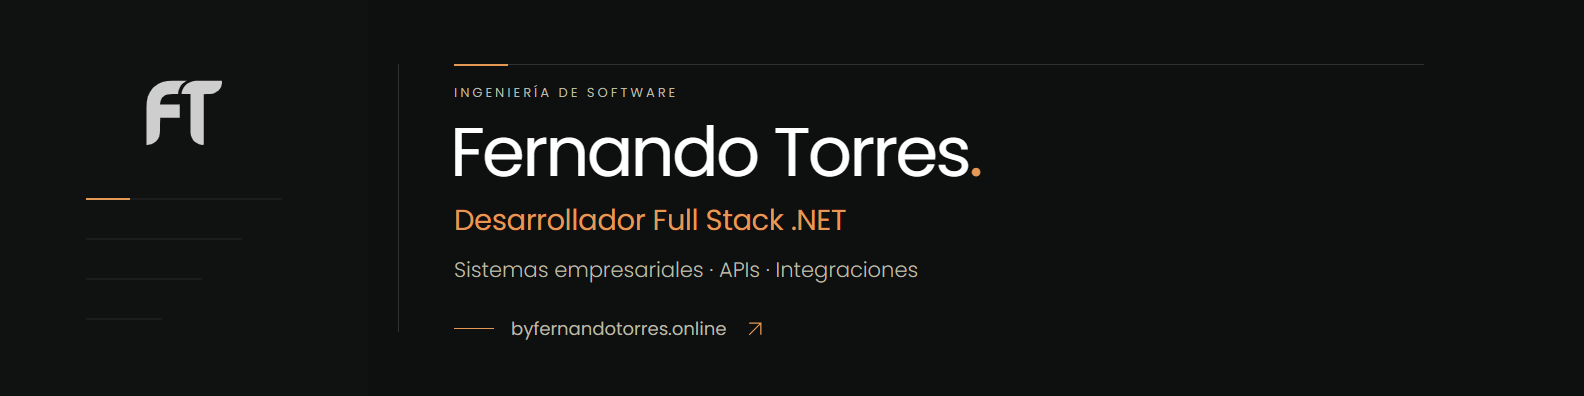
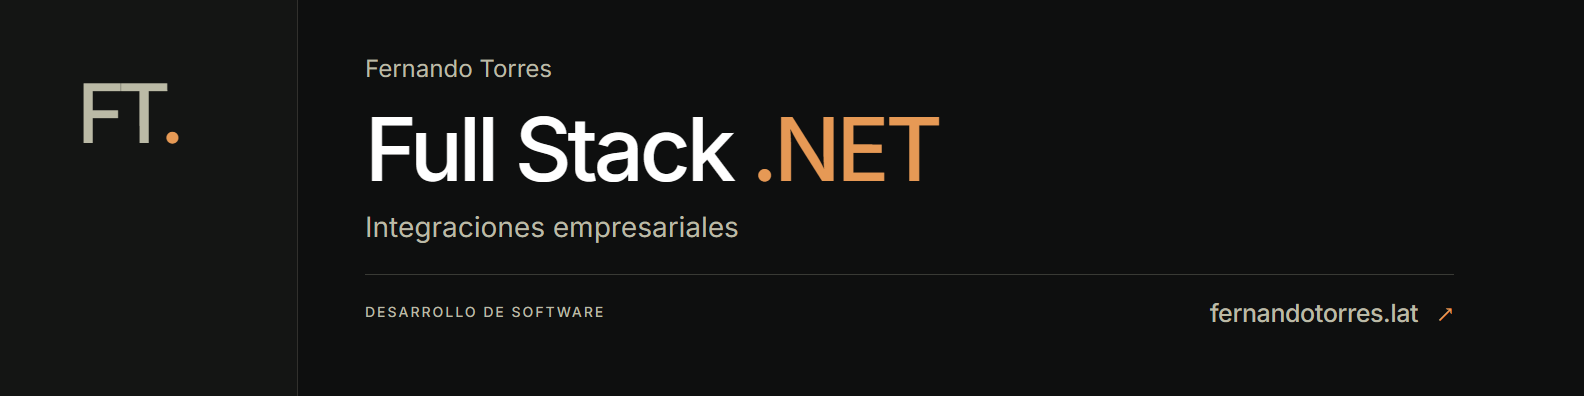
fix(index): actualiza el nombre del dominio

diff --git a/assets/banners/linkedin/index.html b/assets/banners/linkedin/index.html
@@ -1,146 +1,202 @@
-<!DOCTYPE html>
+<!doctype html>
 <html lang="es-MX">
-
 <head>
-    <meta charset="utf-8">
-    <meta name="viewport" content="width=device-width, initial-scale=1">
-    <meta name="robots" content="noindex, nofollow">
-    <meta name="theme-color" content="#0e0f0f">
-    <title>Portadas de LinkedIn — Fernando Torres</title>
-    <link rel="preconnect" href="https://fonts.googleapis.com">
-    <link rel="preconnect" href="https://fonts.gstatic.com" crossorigin>
-    <link href="https://fonts.googleapis.com/css2?family=Poppins:wght@300;400;500;600&display=swap" rel="stylesheet">
-    <link rel="stylesheet" href="banners.css">
+  <meta charset="utf-8">
+  <meta name="viewport" content="width=device-width, initial-scale=1">
+  <meta name="robots" content="noindex, nofollow">
+  <title>Fernando Torres — Banners LinkedIn</title>
+  <link href="https://fonts.googleapis.com/css2?family=Inter:wght@400;500;600&display=swap" rel="stylesheet">
+  <style>
+    :root { --amber:#e69955; --charcoal:#0e0f0f; --raised:#101111; --soft:#141514; --muted:#bbbaa6; --body:#aaa; --white:#fff; }
+    * { box-sizing:border-box; }
+    body { margin:0; background:var(--charcoal); color:var(--white); font-family:'Vela Sans',Inter,'Noto Sans',sans-serif; -webkit-font-smoothing:antialiased; }
+    .banner { position:relative; width:1584px; height:396px; overflow:hidden; background:var(--charcoal); }
+    h1,h2,p { margin:0; }
+    .amber { color:var(--amber); }
+    .label { font-size:17px; font-weight:500; letter-spacing:3px; text-transform:uppercase; color:var(--muted); }
+    .domain { font-size:25px; font-weight:500; letter-spacing:-.4px; color:var(--muted); }
+    .arrow { color:var(--amber); margin-left:18px; }
+    .minimal .content { position:absolute; top:72px; left:400px; }
+    .minimal h1 { font-size:76px; font-weight:500; letter-spacing:-2.7px; line-height:1.15; margin:12px 0 18px; }
+    .minimal .specialty { font-size:28px; color:var(--muted); }
+    .minimal .domain { margin-top:34px; }
+    .minimal .rule { position:absolute; left:350px; top:79px; height:226px; width:2px; background:var(--amber); }
+    .minimal .sculpture { position:absolute; right:-95px; top:-166px; width:490px; height:670px; border:1px solid #bbbaa626; border-radius:50%; transform:rotate(30deg); }
+    .minimal .sculpture::before,.minimal .sculpture::after { content:''; position:absolute; inset:48px; border:1px solid #bbbaa61c; border-radius:50%; }
+    .minimal .sculpture::after { inset:96px; background:var(--raised); }
+    .editorial .rail { position:absolute; left:0; width:298px; height:396px; background:var(--soft); border-right:1px solid #bbbaa62b; }
+    .editorial .rail span { display:block; margin:64px 0 0 77px; font-size:82px; letter-spacing:-8px; font-weight:500; color:var(--muted); }
+    .editorial .rail i { color:var(--amber); font-style:normal; }
+    .editorial .content { position:absolute; left:365px; top:54px; right:130px; }
+    .editorial .name { font-size:24px; color:var(--muted); }
+    .editorial h1 { font-weight:500; font-size:88px; line-height:1.2; letter-spacing:-4px; margin:14px 0 7px; }
+    .editorial .specialty { font-size:28px; color:var(--muted); }
+    .editorial footer { display:flex; align-items:center; justify-content:space-between; margin-top:30px; padding-top:20px; border-top:1px solid #bbbaa640; }
+    .editorial .label { font-size:14px; letter-spacing:2px; }
+    .geometric .content { position:absolute; left:355px; top:68px; z-index:1; }
+    .geometric h1 { font-size:64px; font-weight:500; line-height:1.15; letter-spacing:-2px; margin:14px 0 12px; }
+    .geometric .specialty { font-size:27px; color:var(--muted); }
+    .geometric .domain { margin-top:36px; }
+    .geometric svg { position:absolute; right:90px; top:48px; width:430px; height:300px; }
+    .geometric .edge { position:absolute; left:0; top:0; height:396px; width:265px; background:repeating-linear-gradient(135deg,transparent 0 31px,#bbbaa609 32px 33px); }
+    .architecture .content { position:absolute; left:355px; top:66px; z-index:1; }
+    .architecture .label { font-size:16px; letter-spacing:2.8px; }
+    .architecture h1 { font-size:65px; font-weight:500; letter-spacing:-2.6px; line-height:1.15; margin:18px 0 14px; }
+    .architecture .specialty { font-size:28px; color:var(--muted); }
+    .architecture .specialty span { color:var(--amber); }
+    .architecture .description { font-size:23px; color:var(--muted); margin-top:8px; }
+    .architecture .domain { margin-top:29px; font-size:24px; }
+    .architecture .art { position:absolute; right:52px; top:8px; width:590px; height:380px; }
+    .architecture .margin-line { position:absolute; left:310px; top:74px; width:2px; height:60px; background:var(--amber); }
+    .reference { border:0; }
+    .reference::after { content:''; position:absolute; inset:3px 21px 6px 28px; border:1px solid #bbbaa62b; pointer-events:none; }
+    .reference .content { position:absolute; left:468px; top:69px; z-index:1; }
+    .reference .label { display:flex; align-items:center; gap:12px; font-size:13px; letter-spacing:2px; }
+    .reference .label::before { content:''; width:7px; height:7px; border-radius:50%; background:var(--amber); }
+    .reference h1 { font-size:56px; line-height:1.15; font-weight:400; letter-spacing:-2.5px; margin:26px 0 18px; }
+    .reference .specialty { color:var(--amber); font-size:26px; letter-spacing:-.6px; }
+    .reference .domain { position:absolute; left:468px; top:324px; font-size:19px; font-weight:400; letter-spacing:-.3px; z-index:1; }
+    .reference .drawing { position:absolute; inset:0; width:1584px; height:396px; }
+    .banner[hidden] { display:none; }
+  </style>
 </head>
-
 <body>
-    <header class="gallery-header">
-        <p class="eyebrow">Fernando Torres / Identidad profesional</p>
-        <h1>Tu siguiente primera impresión.</h1>
-        <div class="gallery-intro">
-            <p>Tres portadas de LinkedIn. Una misma identidad.<br>PNG · 1584 × 396 px · Paleta de DESIGN.md</p>
-            <label class="profile-toggle"><input type="checkbox" id="profile-zone"> Simular foto de perfil</label>
-        </div>
-    </header>
-
-    <main>
-        <section class="proposal" data-variant="editorial">
-            <div class="proposal-heading">
-                <div><span class="proposal-number">01</span><h2>Editorial minimalista</h2><span class="recommended">Recomendada</span></div>
-                <a class="download" href="editorial-1584x396.png" download>Descargar PNG <span aria-hidden="true">↗</span></a>
-            </div>
-            <div class="banner-frame">
-                <article class="banner editorial" aria-label="Portada editorial: Fernando Torres, Desarrollador Full Stack .NET. Sistemas empresariales, APIs e integraciones. byfernandotorres.online.">
-                    <div class="editorial-sidebar" aria-hidden="true"></div>
-                    <img class="editorial-logo" src="../../imgs/logo-light.svg" alt="" aria-hidden="true" width="78" height="71">
-                    <svg class="editorial-ornament" width="196" height="140" viewBox="0 0 196 140" fill="none" aria-hidden="true">
-                        <path d="M0 18H196M0 58H156M0 98H116M0 138H76" stroke="currentColor" stroke-opacity=".13"/>
-                        <path d="M0 18H44" stroke="#e69955" stroke-width="2"/>
-                    </svg>
-                    <div class="editorial-rail" aria-hidden="true"></div>
-                    <div class="editorial-topline" aria-hidden="true"><span></span></div>
-                    <p class="editorial-label" data-copy>Ingeniería de software</p>
-                    <h2 class="editorial-name" data-copy>Fernando Torres<span class="name-dot">.</span></h2>
-                    <p class="editorial-role" data-copy>Desarrollador Full Stack .NET</p>
-                    <p class="editorial-focus" data-copy>Sistemas empresariales · APIs · Integraciones</p>
-                    <div class="editorial-footer" data-copy>
-                        <span class="footer-rule" aria-hidden="true"></span>
-                        <span>byfernandotorres.online</span>
-                        <svg width="20" height="20" viewBox="0 0 24 24" fill="none" aria-hidden="true"><path d="M5 19 19 5M5 5h14v14" stroke="currentColor" stroke-width="1.5"/></svg>
-                    </div>
-                </article>
-            </div>
-            <p class="proposal-note">Tipografía al frente, firma de marca y espacio generoso. Una presentación sobria y atemporal.</p>
-        </section>
-
-        <section class="proposal" data-variant="geometrico">
-            <div class="proposal-heading">
-                <div><span class="proposal-number">02</span><h2>Arquitectura conectada</h2></div>
-                <a class="download" href="geometrico-1584x396.png" download>Descargar PNG <span aria-hidden="true">↗</span></a>
-            </div>
-            <div class="banner-frame">
-                <article class="banner geometric" aria-label="Portada geométrica: Fernando Torres, Desarrollador Full Stack .NET. Sistemas empresariales, APIs e integraciones. byfernandotorres.online.">
-                    <div class="geometric-grid" aria-hidden="true"></div>
-                    <svg class="geometric-lines" width="1584" height="396" viewBox="0 0 1584 396" fill="none" aria-hidden="true">
-                        <path d="M0 106H268C291 106 294 82 318 82H384M0 143H230C259 143 265 119 294 119H350M94 0V45C94 62 107 69 125 69H203M0 180H194" stroke="#bbbaa6" stroke-opacity=".14"/>
-                        <path d="M110 106H230" stroke="#e69955" stroke-opacity=".6"/>
-                        <circle cx="268" cy="106" r="4" fill="#e69955"/>
-                        <circle cx="350" cy="119" r="3" fill="#bbbaa6" fill-opacity=".4"/>
-                        <path d="M1058 97H1100L1140 121M1415 246 1463 272H1584M1284 332V396" stroke="#bbbaa6" stroke-opacity=".28"/>
-                        <path d="m1116 221 168-88 168 88v30l-168 88-168-88Z" fill="#101111" stroke="#bbbaa6" stroke-opacity=".26"/>
-                        <path d="m1116 221 168 88 168-88M1284 309v30" stroke="#bbbaa6" stroke-opacity=".26"/>
-                        <path d="m1116 172 168-88 168 88v30l-168 88-168-88Z" fill="#141514" stroke="#bbbaa6" stroke-opacity=".32"/>
-                        <path d="m1116 172 168 88 168-88M1284 260v30" stroke="#bbbaa6" stroke-opacity=".32"/>
-                        <path d="m1116 123 168-88 168 88v30l-168 88-168-88Z" fill="#101111" stroke="#bbbaa6" stroke-opacity=".5"/>
-                        <path d="m1116 123 168 88 168-88M1284 211v30" stroke="#bbbaa6" stroke-opacity=".5"/>
-                        <path d="m1224 123 60-32 60 32-60 32Z" fill="#141514" stroke="#e69955" stroke-width="1.5"/>
-                        <path d="M1284 91V67m60 56h35m-155 0h-35m95 32v24" stroke="#e69955" stroke-opacity=".65"/>
-                        <circle cx="1284" cy="67" r="3" fill="#e69955"/>
-                        <circle cx="1379" cy="123" r="3" fill="#e69955"/>
-                        <circle cx="1189" cy="123" r="3" fill="#e69955"/>
-                        <circle cx="1284" cy="179" r="3" fill="#e69955"/>
-                        <path d="m1195 214 29 15m-29 34 29 15m-29-15 29 15" stroke="#e69955" stroke-opacity=".75" stroke-width="2"/>
-                        <path d="m1343 241 30-16m-30 65 30-16" stroke="#bbbaa6" stroke-opacity=".5" stroke-width="2"/>
-                    </svg>
-                    <div class="geometric-copy">
-                        <p class="geometric-label" data-copy><span aria-hidden="true"></span>Desarrollo e integración</p>
-                        <h2 class="geometric-name" data-copy>Fernando Torres</h2>
-                        <p class="geometric-role" data-copy>Desarrollador Full Stack .NET</p>
-                        <p class="geometric-focus" data-copy>Sistemas empresariales.<br>APIs e integraciones.</p>
-                        <p class="geometric-url" data-copy>byfernandotorres.online <span aria-hidden="true">↗</span></p>
-                    </div>
-                </article>
-            </div>
-            <p class="proposal-note">Capas isométricas y conexiones originales: una metáfora visual de sistemas que trabajan juntos.</p>
-        </section>
-
-        <section class="proposal" data-variant="tipografico">
-            <div class="proposal-heading">
-                <div><span class="proposal-number">03</span><h2>Especialidad protagonista</h2></div>
-                <a class="download" href="tipografico-1584x396.png" download>Descargar PNG <span aria-hidden="true">↗</span></a>
-            </div>
-            <div class="banner-frame">
-                <article class="banner typographic" aria-label="Portada tipográfica: Fernando Torres, Desarrollador Full Stack .NET. Sistemas empresariales, APIs e integraciones. byfernandotorres.online.">
-                    <div class="typographic-monogram" aria-hidden="true">FT</div>
-                    <svg class="typographic-slash" width="300" height="396" viewBox="0 0 300 396" fill="none" aria-hidden="true">
-                        <path d="M230-100 24 496h80L310-100Z" fill="#141514"/>
-                        <path d="M262-100 56 496" stroke="#bbbaa6" stroke-opacity=".13"/>
-                    </svg>
-                    <div class="typographic-accent" aria-hidden="true"></div>
-                    <p class="typographic-name" data-copy>Fernando Torres</p>
-                    <h2 class="typographic-role" data-copy><span class="role-prefix">Desarrollador</span>Full Stack <span class="dotnet">.NET</span></h2>
-                    <p class="typographic-focus" data-copy>Sistemas empresariales · APIs · Integraciones</p>
-                    <div class="typographic-footer" data-copy>
-                        <span class="footer-rule" aria-hidden="true"></span>
-                        <span>byfernandotorres.online</span>
-                        <svg width="20" height="20" viewBox="0 0 24 24" fill="none" aria-hidden="true"><path d="M5 19 19 5M5 5h14v14" stroke="currentColor" stroke-width="1.5"/></svg>
-                    </div>
-                </article>
-            </div>
-            <p class="proposal-note">La especialidad es el mensaje principal. Mayor impacto tipográfico con un acento ámbar controlado.</p>
-        </section>
-    </main>
-
-    <footer class="gallery-footer">Las tres imágenes reservan la esquina inferior izquierda para tu foto de perfil. Sube el PNG a LinkedIn y conserva el encuadre completo.</footer>
-
-    <script>
-        const exportVariant = new URLSearchParams(window.location.search).get('export');
-        const variants = ['editorial', 'geometrico', 'tipografico'];
-
-        if (variants.includes(exportVariant)) {
-            document.body.classList.add('is-export');
-            document.querySelectorAll('.proposal').forEach(proposal => {
-                proposal.hidden = proposal.dataset.variant !== exportVariant;
-            });
-        } else {
-            const resizeObserver = new ResizeObserver(entries => {
-                entries.forEach(({ target, contentRect }) => {
-                    target.style.setProperty('--preview-scale', contentRect.width / 1584);
-                });
-            });
-            document.querySelectorAll('.banner-frame').forEach(frame => resizeObserver.observe(frame));
-        }
-    </script>
+  <section class="banner minimal" data-variant="minimalista" aria-label="Banner minimalista">
+    <div class="sculpture" aria-hidden="true"></div><div class="rule" aria-hidden="true"></div>
+    <div class="content"><p class="label">Desarrollo de software</p><h1>Fernando Torres<span class="amber">.</span></h1><p class="specialty"><span class="amber">Full Stack .NET</span> &nbsp;·&nbsp; Integraciones empresariales</p><p class="domain">fernandotorres.lat<span class="arrow">↗</span></p></div>
+  </section>
+  <section class="banner editorial" data-variant="editorial" aria-label="Banner editorial" hidden>
+    <div class="rail" aria-hidden="true"><span>FT<i>.</i></span></div>
+    <div class="content"><p class="name">Fernando Torres</p><h1>Full Stack <span class="amber">.NET</span></h1><p class="specialty">Integraciones empresariales</p><footer><p class="label">Desarrollo de software</p><p class="domain">fernandotorres.lat<span class="arrow">↗</span></p></footer></div>
+  </section>
+  <section class="banner geometric" data-variant="geometrico" aria-label="Banner geométrico" hidden>
+    <div class="edge" aria-hidden="true"></div>
+    <div class="content"><p class="label">Full Stack <span class="amber">.NET</span></p><h1>Fernando Torres<span class="amber">.</span></h1><p class="specialty">Integraciones empresariales</p><p class="domain">fernandotorres.lat<span class="arrow">↗</span></p></div>
+    <svg viewBox="0 0 430 300" fill="none" aria-hidden="true">
+      <path d="M215 18 415 150 215 282 15 150Z" stroke="#bbbaa6" stroke-opacity=".15"/>
+      <path d="M215 50 365 150 215 250 65 150Z" stroke="#bbbaa6" stroke-opacity=".22"/>
+      <path d="M65 150H160M270 150H365M215 50V104M215 196V250" stroke="#e69955" stroke-width="2"/>
+      <path d="M65 150V65H215M365 150V235H215" stroke="#bbbaa6" stroke-opacity=".3"/>
+      <rect x="154" y="96" width="122" height="108" rx="18" fill="#141514" stroke="#e69955"/>
+      <rect x="162" y="104" width="106" height="92" rx="12" stroke="#bbbaa6" stroke-opacity=".13"/>
+      <text x="215" y="162" fill="#fff" font-family="Inter,sans-serif" font-size="33" font-weight="500" text-anchor="middle">.NET</text>
+      <g fill="#141514" stroke="#bbbaa6"><rect x="46" y="131" width="38" height="38" rx="8"/><rect x="346" y="131" width="38" height="38" rx="8"/><rect x="196" y="31" width="38" height="38" rx="8"/><rect x="196" y="231" width="38" height="38" rx="8"/></g>
+      <g fill="#e69955"><circle cx="65" cy="150" r="4"/><circle cx="365" cy="150" r="4"/><circle cx="215" cy="50" r="4"/><circle cx="215" cy="250" r="4"/></g>
+    </svg>
+  </section>
+  <section class="banner architecture" data-variant="arquitectura-conectada" aria-label="Arquitectura conectada: Fernando Torres, Full Stack .NET e integraciones empresariales" hidden>
+    <div class="margin-line" aria-hidden="true"></div>
+    <div class="content">
+      <p class="label">Arquitectura conectada</p>
+      <h1>Fernando Torres<span class="amber">.</span></h1>
+      <p class="specialty">Full Stack <span>.NET</span></p>
+      <p class="description">Integraciones empresariales</p>
+      <p class="domain">fernandotorres.lat<span class="arrow">↗</span></p>
+    </div>
+    <!-- Original vector illustration: conceptual layers and connections, not a project topology. -->
+    <svg class="art" viewBox="0 0 590 380" fill="none" aria-hidden="true">
+      <defs>
+        <g id="connected-module">
+          <path d="M0 0 48-28 96 0 48 28Z" fill="#141514" stroke="#bbbaa6" stroke-opacity=".55"/>
+          <path d="M0 0V12L48 40V28Z" fill="#101111" stroke="#bbbaa6" stroke-opacity=".25"/>
+          <path d="M48 28 96 0V12L48 40Z" fill="#0e0f0f" stroke="#bbbaa6" stroke-opacity=".35"/>
+          <path d="M32 0 48-9 64 0 48 9Z" stroke="#e69955" stroke-width="1.5"/>
+        </g>
+      </defs>
+      <!-- Quiet isometric ground plane. -->
+      <g stroke="#bbbaa6" stroke-opacity=".09">
+        <path d="M26 239 286 89 564 250 304 400M26 279 286 129 564 290M26 319 286 169 564 330M76 348 336 198M146 388 406 238"/>
+        <path d="M26 239 304 400M96 199 374 360M166 159 444 320M236 119 514 280"/>
+      </g>
+      <!-- Routed connections tie four independent systems into the layered core. -->
+      <g stroke="#e69955" stroke-width="1.7" stroke-linecap="round" stroke-linejoin="round">
+        <path d="M108 150V188L205 244"/>
+        <path d="M472 116V166L381 219"/>
+        <path d="M470 282 421 310 361 275"/>
+        <path d="M143 306 186 331 244 298"/>
+      </g>
+      <g stroke="#bbbaa6" stroke-opacity=".35" stroke-dasharray="3 6">
+        <path d="M108 127 229 57 345 124"/>
+        <path d="M472 103 398 60 343 92"/>
+      </g>
+      <!-- Lower layer: data and infrastructure. -->
+      <path d="M180 244 295 178 410 244 295 310Z" fill="#141514" stroke="#bbbaa6" stroke-opacity=".6"/>
+      <path d="M180 244V258L295 324V310Z" fill="#101111" stroke="#bbbaa6" stroke-opacity=".3"/>
+      <path d="M295 310 410 244V258L295 324Z" fill="#0e0f0f" stroke="#bbbaa6" stroke-opacity=".4"/>
+      <path d="M205 244 295 192 385 244 295 296Z" stroke="#bbbaa6" stroke-opacity=".15"/>
+      <!-- Middle layer: integration; the amber edge is the signal. -->
+      <g stroke="#bbbaa6" stroke-opacity=".4" stroke-dasharray="3 5"><path d="M180 183V243M410 183V243M295 249V309"/></g>
+      <path d="M180 183 295 117 410 183 295 249Z" fill="#141514" stroke="#e69955" stroke-width="1.5"/>
+      <path d="M180 183V195L295 261V249Z" fill="#101111" stroke="#e69955" stroke-opacity=".65"/>
+      <path d="M295 249 410 183V195L295 261Z" fill="#101111" stroke="#e69955" stroke-opacity=".65"/>
+      <path d="M211 183 295 135 379 183 295 231Z" stroke="#e69955" stroke-opacity=".3"/>
+      <!-- Upper layer: application, with a small original processor motif. -->
+      <g stroke="#bbbaa6" stroke-opacity=".4" stroke-dasharray="3 5"><path d="M180 120V182M410 120V182M295 186V248"/></g>
+      <path d="M180 120 295 54 410 120 295 186Z" fill="#141514" stroke="#bbbaa6" stroke-opacity=".8"/>
+      <path d="M180 120V132L295 198V186Z" fill="#101111" stroke="#bbbaa6" stroke-opacity=".4"/>
+      <path d="M295 186 410 120V132L295 198Z" fill="#0e0f0f" stroke="#bbbaa6" stroke-opacity=".5"/>
+      <path d="M211 120 295 72 379 120 295 168Z" stroke="#bbbaa6" stroke-opacity=".2"/>
+      <g transform="translate(295 120) matrix(.866 .5 -.866 .5 0 0)">
+        <rect x="-29" y="-29" width="58" height="58" rx="6" fill="#101111" stroke="#e69955" stroke-width="2"/>
+        <path d="M-18-38V-29M0-38V-29M18-38V-29M-18 29V38M0 29V38M18 29V38M-38-18H-29M-38 0H-29M-38 18H-29M29-18H38M29 0H38M29 18H38" stroke="#bbbaa6"/>
+        <path d="m-11-9-9 9 9 9M11-9 9 9M11-9 20 0 11 9" stroke="#e69955" stroke-width="2.5" stroke-linejoin="round"/>
+      </g>
+      <use href="#connected-module" x="60" y="122"/>
+      <use href="#connected-module" x="424" y="88"/>
+      <use href="#connected-module" x="422" y="254"/>
+      <use href="#connected-module" x="95" y="278"/>
+      <g fill="#e69955"><circle cx="108" cy="188" r="3"/><circle cx="472" cy="166" r="3"/><circle cx="421" cy="310" r="3"/><circle cx="186" cy="331" r="3"/></g>
+    </svg>
+  </section>
+  <section class="banner reference" data-variant="geometrico-isometrico" aria-label="Fernando Torres, Full Stack .NET, integraciones empresariales" hidden>
+    <div class="content">
+      <p class="label">Full Stack .NET</p>
+      <h1>Fernando Torres</h1>
+      <p class="specialty">Integraciones empresariales</p>
+    </div>
+    <p class="domain">fernandotorres.lat<span class="arrow">↗</span></p>
+    <svg class="drawing" viewBox="0 0 1584 396" fill="none" aria-hidden="true">
+      <defs>
+        <pattern id="reference-dots" width="20" height="20" patternUnits="userSpaceOnUse"><circle cx="3" cy="13" r="1" fill="#bbbaa6" fill-opacity=".2"/></pattern>
+        <linearGradient id="reference-fade"><stop stop-color="white" stop-opacity="0"/><stop offset=".36" stop-color="white"/><stop offset=".9" stop-color="white"/><stop offset="1" stop-color="white" stop-opacity="0"/></linearGradient>
+        <mask id="reference-dot-mask"><rect x="980" width="580" height="396" fill="url(#reference-fade)"/></mask>
+      </defs>
+      <rect x="980" y="3" width="580" height="387" fill="url(#reference-dots)" mask="url(#reference-dot-mask)"/>
+      <!-- Fine circuit traces echo the supplied reference, leaving the avatar area quiet. -->
+      <g stroke="#bbbaa6" stroke-opacity=".13" stroke-width="1">
+        <path d="M120 3V44Q120 71 151 71H226M29 107H284Q303 107 316 94L327 84Q335 83 346 83H403"/>
+        <path d="M29 143H247Q267 143 282 132L299 122Q307 119 323 119H369M29 179H217"/>
+        <path d="M1056 98H1096L1127 118M1412 247 1450 268H1563M1275 323V390"/>
+      </g>
+      <path d="M136 107H253" stroke="#e69955" stroke-opacity=".6"/>
+      <circle cx="289" cy="107" r="3.6" fill="#e69955"/>
+      <circle cx="369" cy="119" r="2.8" fill="#bbbaa6" fill-opacity=".35"/>
+      <!-- Three precisely aligned isometric slabs, drawn back-to-front. -->
+      <g stroke-width="1.2" stroke-linejoin="round">
+        <path d="M1112 219 1275 134 1438 219 1275 305Z" fill="#101111" stroke="#bbbaa6" stroke-opacity=".27"/>
+        <path d="M1112 219V248L1275 333V305Z" fill="#0e0f0f" stroke="#bbbaa6" stroke-opacity=".27"/>
+        <path d="M1275 305 1438 219V248L1275 333Z" fill="#101111" stroke="#bbbaa6" stroke-opacity=".27"/>
+        <path d="M1189 260 1216 274" stroke="#e69955" stroke-opacity=".8"/>
+        <path d="M1332 286 1360 271" stroke="#bbbaa6" stroke-opacity=".55"/>
+        <path d="M1112 171 1275 86 1438 171 1275 257Z" fill="#101111" stroke="#bbbaa6" stroke-opacity=".32"/>
+        <path d="M1112 171V200L1275 286V257Z" fill="#101111" stroke="#bbbaa6" stroke-opacity=".32"/>
+        <path d="M1275 257 1438 171V200L1275 286Z" fill="#101111" stroke="#bbbaa6" stroke-opacity=".32"/>
+        <path d="M1189 212 1216 226" stroke="#e69955" stroke-opacity=".85"/>
+        <path d="M1332 238 1360 223" stroke="#bbbaa6" stroke-opacity=".6"/>
+        <path d="M1112 123 1275 37 1438 123 1275 209Z" fill="#101111" stroke="#bbbaa6" stroke-opacity=".48"/>
+        <path d="M1112 123V152L1275 238V209Z" fill="#0e0f0f" stroke="#bbbaa6" stroke-opacity=".42"/>
+        <path d="M1275 209 1438 123V152L1275 238Z" fill="#101111" stroke="#bbbaa6" stroke-opacity=".42"/>
+      </g>
+      <g stroke="#e69955" stroke-width="1.5" stroke-linejoin="round">
+        <path d="M1217 123 1275 92 1333 123 1275 154Z"/>
+        <path d="M1183 123H1217M1333 123H1367M1275 69V92M1275 154V177"/>
+      </g>
+      <g fill="#e69955"><circle cx="1183" cy="123" r="2.8"/><circle cx="1367" cy="123" r="2.8"/><circle cx="1275" cy="69" r="2.8"/><circle cx="1275" cy="177" r="2.8"/></g>
+    </svg>
+  </section>
+  <script>
+    const variant = new URLSearchParams(location.search).get('variant') || 'minimalista';
+    document.querySelectorAll('[data-variant]').forEach(banner => { banner.hidden = banner.dataset.variant !== variant; });
+  </script>
 </body>
-
 </html>

diff --git a/index.html b/index.html
@@ -15,20 +15,20 @@
 
     <meta property="og:title" content="Fernando Torres - Desarrollador Full Stack .NET">
     <meta property="og:description" content="Portafolio profesional de Fernando Torres, especialista en desarrollo .NET, SQL Server y Angular.">
-    <meta property="og:image" content="https://byfernandotorres.online/assets/imgs/header/0.jpg">
+    <meta property="og:image" content="https://fernandotorres.lat/assets/imgs/header/0.jpg">
     <meta property="og:type" content="website">
     <meta property="og:locale" content="es_MX">
     <meta property="og:site_name" content="Fernando Torres - Portafolio">
-    <meta property="og:url" content="https://byfernandotorres.online/">
+    <meta property="og:url" content="https://fernandotorres.lat/">
 
     <meta name="twitter:card" content="summary_large_image">
     <meta name="twitter:title" content="Fernando Torres - Full Stack .NET Developer">
     <meta name="twitter:description" content="Ingeniero en Informática con 9 años de experiencia en desarrollo de software y soluciones empresariales.">
-    <meta name="twitter:image" content="https://byfernandotorres.online/assets/imgs/header/0.jpg">
+    <meta name="twitter:image" content="https://fernandotorres.lat/assets/imgs/header/0.jpg">
 
     <!-- Title  -->
     <title>Fernando Torres | Desarrollador Full Stack .NET</title>
-    <link rel="canonical" href="https://byfernandotorres.online/">
+    <link rel="canonical" href="https://fernandotorres.lat/">
 
     <!-- Favicon -->
     <link rel="shortcut icon" href="assets/imgs/favicon.ico">
@@ -55,8 +55,8 @@
         "@type": "Person",
         "name": "Fernando Torres",
         "jobTitle": "Full Stack .NET Developer",
-        "url": "https://byfernandotorres.online/",
-        "image": "https://byfernandotorres.online/assets/imgs/header/0.jpg",
+        "url": "https://fernandotorres.lat/",
+        "image": "https://fernandotorres.lat/assets/imgs/header/0.jpg",
         "sameAs": [
             "https://www.linkedin.com/in/fernandotorresrivera",
             "https://github.com/FernandoTR"
@@ -64,7 +64,7 @@
     }
     </script>
 
-    <script defer src="https://cloud.umami.is/script.js" data-website-id="520ea72b-00cd-44e1-91c8-b9f31af6abd1" data-domains="byfernandotorres.online" data-exclude-search="true" data-exclude-hash="true"></script>
+    <script defer src="https://cloud.umami.is/script.js" data-website-id="520ea72b-00cd-44e1-91c8-b9f31af6abd1" data-domains="fernandotorres.lat" data-exclude-search="true" data-exclude-hash="true"></script>
 </head>
 
 <body class="engineering-home">
